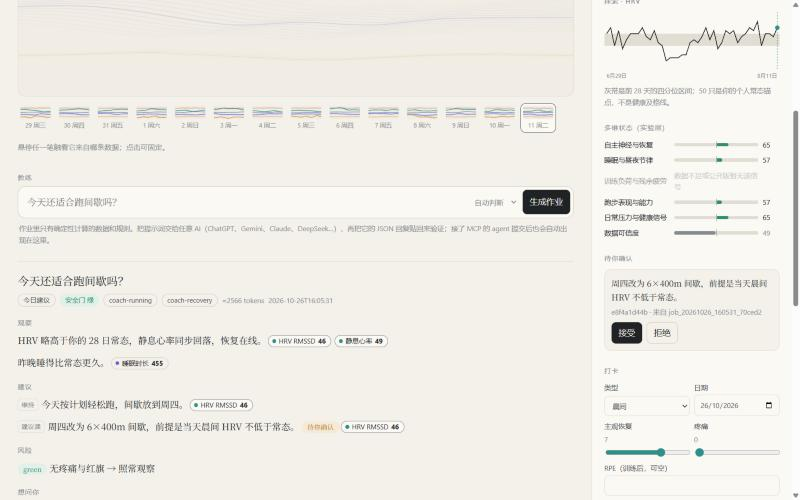
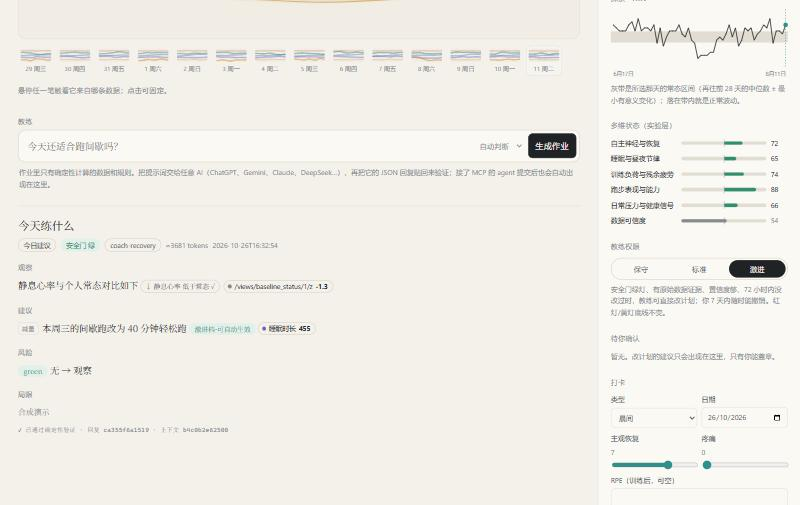
Rebrand as Heartwork 健康画布 and rewrite README
- Product-style README: daily canvas, personal baseline, evidence rules, autonomy levels, local data
- New banner, web title and poster footer; refreshed screenshots
- MCP server examples renamed to heartwork in integration docs

diff --git a/scripts/web/index.html b/scripts/web/index.html
@@ -3,7 +3,7 @@
 <head>
 <meta charset="utf-8">
 <meta name="viewport" content="width=device-width, initial-scale=1">
-<title>Sports Eval · 体征画</title>
+<title>Heartwork · 健康画布</title>
 <style>
 :root{
   --paper:#f4f1ea;--paper-2:#fbf9f4;--ink:#1f2326;--ink-2:#4d5257;--ink-3:#868b90;--line:#e2ddd2;--line-2:#d3ccbe;
@@ -164,7 +164,7 @@ details summary{cursor:pointer;color:var(--ink-3);font-size:12.5px}
 </head>
 <body>
 <header>
-  <div class="mark">Sports Eval <b>·</b> 体征画</div>
+  <div class="mark">Heartwork <b>·</b> 健康画布</div>
   <div class="grow"></div>
   <span class="pill" id="ws"></span>
   <button class="ghost" id="themeBtn" aria-label="切换明暗">◐</button>
@@ -725,7 +725,7 @@ function buildPoster(){
     const act=S.hist.activities.filter(x=>x.date===d);
     if(act.length){const c=el("text",{x:0,y:205,"font-size":22,fill:css("--f-load"),"font-family":css("--sans")},g);c.textContent=act.map(x=>x.type).join(" ")}
   });
-  const f=el("text",{x:80,y:2310,"font-size":22,fill:css("--ink-3"),"font-family":css("--sans")},svg);f.textContent="Sports Eval Core · 由身体数据确定性生成，参照个人 28 日常态";
+  const f=el("text",{x:80,y:2310,"font-size":22,fill:css("--ink-3"),"font-family":css("--sans")},svg);f.textContent="Heartwork 健康画布 · 由身体数据确定性生成，以你本人的常态为基准";
   box.appendChild(svg);
 }
 function downloadPoster(){

diff --git a/scripts/web.py b/scripts/web.py
@@ -206,7 +206,7 @@ def _parse_loose_json(text):
 
 
 def main(argv=None):
-    parser = argparse.ArgumentParser(description="Sports Eval Core 本机网页")
+    parser = argparse.ArgumentParser(description="Heartwork 健康画布本机网页")
     parser.add_argument("--home")
     parser.add_argument("--port", type=int, default=8765)
     parser.add_argument("--no-browser", action="store_true")
@@ -215,7 +215,7 @@ def main(argv=None):
     store.init(base)
     server = ThreadingHTTPServer(("127.0.0.1", args.port), make_handler(base))
     url = "http://127.0.0.1:%d/" % server.server_address[1]
-    print("Sports Eval Core 网页：%s（工作区 %s，Ctrl+C 退出）" % (url, store.home(base)), flush=True)
+    print("Heartwork 网页：%s（工作区 %s，Ctrl+C 退出）" % (url, store.home(base)), flush=True)
     if not args.no_browser:
         threading.Timer(0.6, webbrowser.open, (url,)).start()
     try:

diff --git a/tests/test_web.py b/tests/test_web.py
@@ -40,7 +40,7 @@ class WebTest(unittest.TestCase):
 
     def test_page_and_snapshot(self):
         with urllib.request.urlopen(self.url + "/") as response:
-            self.assertIn("体征画", response.read().decode("utf-8"))
+            self.assertIn("健康画布", response.read().decode("utf-8"))
         snapshot = self.request("/api/snapshot")
         self.assertEqual(snapshot["safety_gate"]["level"], "green")
         self.assertGreater(len(self.request("/api/history")["daily"]), 40)

diff --git a/README.md b/README.md
@@ -1,156 +1,169 @@
 <p align="center">
-  <img src="docs/images/banner.svg" alt="Sports Eval Core · 把身体数据画成画，再交给你的 AI 教练" width="100%">
+  <img src="docs/images/banner.svg" alt="Heartwork 健康画布" width="100%">
 </p>
+
+<p align="center"><b>以你本人为基准的健康画布，与只依据证据发言的 AI 教练。</b></p>
+
+<p align="center"><sub>本地运行 · 零依赖 · 支持 Claude / ChatGPT / Gemini / Codex / DeepSeek · Apache-2.0</sub></p>
 
 <p align="center">
-  <img alt="Python 3.9+" src="https://img.shields.io/badge/Python-3.9%2B-1f2326?style=flat-square&logo=python&logoColor=f4f1ea">
-  <img alt="Zero dependencies" src="https://img.shields.io/badge/dependencies-0-868b90?style=flat-square">
-  <img alt="MCP" src="https://img.shields.io/badge/MCP-stdio%20%7C%20http-2f8f8a?style=flat-square">
-  <img alt="Local first" src="https://img.shields.io/badge/data-local%20only-6d5fd0?style=flat-square">
-  <a href="LICENSE"><img alt="License Apache-2.0" src="https://img.shields.io/badge/license-Apache--2.0-c98a25?style=flat-square"></a>
+  <a href="#开始使用">开始使用</a> ｜ <a href="#接入-ai">接入 AI</a> ｜ <a href="#有据可依的-ai-教练">证据机制</a> ｜ <a href="#授权由你设定">授权档位</a> ｜ <a href="CHANGELOG.md">更新记录</a>
 </p>
+
+Heartwork 读取你从手表和健康应用导出的数据，在本机算出每项指标相对你个人常态的位置，每天生成一幅画布，再把经过确定性处理的上下文交给你选用的 AI。AI 的每条结论都必须指向具体数据，并通过代码核验。训练计划的修改权限由你设定。
 
 <p align="center">
-  <a href="#快速开始">快速开始</a> ｜ <a href="#接到你的-agent">接到你的 agent</a> ｜ <a href="#它怎么保证不胡说">验证机制</a> ｜ <a href="integrations/">各家配置</a> ｜ <a href="CHANGELOG.md">更新记录</a>
+  <img src="docs/images/web-dark.jpg" alt="Heartwork 健康画布：节奏跑当天，负荷带出现高心率区的结，红色圆环为疼痛记录" width="100%">
 </p>
+<p align="center"><sub>8 周合成示例数据。7 月 22 日节奏跑后，负荷带上出现了高心率区的结；红色圆环是当天的疼痛记录。</sub></p>
 
-手表每天都在记录 HRV、静息心率、睡眠和训练负荷，但大多数人只看一眼分数就划走了。把这些数字直接丢给 AI，它又很容易顺口编一个"你的恢复不错"。
+## 每日画布
 
-**Sports Eval Core 是一个本地优先的 AI 运动教练内核。** 它把你从手表导出的文件整理成相对"你自己常态"的指标，每天生成一幅由身体数据画成的画，再把确定性计算好的上下文交给你已经在用的 AI：Claude、ChatGPT、Gemini、Codex、DeepSeek Harness 都行。AI 的每一句结论都必须指回具体数据，数值对不上、越权给处方、无视疼痛红旗，都会被代码拦下，不会展示给你。改训练计划，只有你能拍板。
+恢复、睡眠、负荷、压力、表现，各是一束丝带。状态好于个人常态时，丝带收拢成束；偏离常态时，丝带散开、相互缠绕。高心率训练显示为结，疼痛与不适标为红色圆环。缺失的数据保持灰色虚线，不做插补。
+
+每一笔都可以追溯：悬停即可看到日期、数值、个人常态区间，以及写入这项数据的导入文件和它的 SHA-256。画布可以逐日回看，也可以把一周七幅导出为海报。
+
+## 以你为基准
+
+Heartwork 不用人群平均值评判个人。
+
+- **滚动基线**：近 7 天均值对比此前 28 天的中位数，两个窗口互不重叠。
+- **稳健尺度**：离散度采用 MAD，个别异常值不会扭曲基线。
+- **最小有意义变化**：偏离超过 SWC 才标记为偏高或偏低，日常波动保持中性。
+- **HRV 对数化**：RMSSD 先换算为 lnRMSSD，再参与比较。
+- **训练负荷**：用 ATL、CTL、TSB 描述疲劳、体能与当前状态；没有设备记录的训练可以用 sRPE（RPE × 分钟）补录。
+
+这些计算只在 Python 里做一次，画布、AI 上下文和周报告用的是同一份结果。
+
+## 有据可依的 AI 教练
+
+Heartwork 不内置模型，而是给你选用的 AI 定下一套必须遵守的规则。
+
+| 机制 | 作用 |
+|---|---|
+| 安全门 | 调用模型之前，先根据近 14 天的疼痛、疾病和警示信号判定红、黄、绿灯。红灯只允许建议就医，黄灯禁止加量 |
+| 签名作业 | 上下文用本机密钥签名；AI 作答期间数据如有变化，提交时会被判为过期 |
+| 证据核验 | 每条结论附带 JSON Pointer 和观测值，代码逐项比对，数值不一致即拒绝 |
+| 方向核验 | 说到「偏高」「下降」这类趋势时，必须声明方向，且要与确定性基线的判定一致 |
+| 分层约束 | 原始数据、确定性指标、实验模型分层存放；实验层不能单独支撑训练处方 |
+| 行为评测 | 17 个固定场景回放，包括伪造数值、方向说反、黄灯下自动改计划等；全部判定正确才能发布 |
+
+没通过核验的回答不会展示给你。
 
 <p align="center">
-  <img src="docs/images/web-dark.jpg" alt="体征画：一次节奏跑后的那一天，负荷带翻涌，红圈是疼痛打卡" width="100%">
+  <img src="docs/images/web-coach-light.jpg" alt="通过核验的教练回答：每条结论附带方向标签与证据，右侧为授权档位" width="100%">
 </p>
-<p align="center"><sub>本机网页「体征画」。图中为 8 周合成示例数据：7 月 22 日节奏跑后，负荷带出现高心率区的结，红圈是当天的疼痛打卡。</sub></p>
+<p align="center"><sub>通过核验的回答。每条结论后面附有方向标签和证据，悬停证据时，画布上对应的丝带会高亮。右栏是授权档位。</sub></p>
 
-## 亮点
+## 授权由你设定
 
-- **每天一幅画，每一笔都能溯源。** 恢复、睡眠、负荷、压力、表现各是一束丝带；比你的常态好就舒展成束，紧绷就散乱缠绕。悬停任一笔触，看到它来自哪天哪个指标、你的常态是多少、是哪个导入文件（含 SHA-256）写进来的；没有的数据画成灰色虚线，不做填补。第一次打开有「怎么读」图解，还能把一周七幅导出成海报。
-- **相对你自己，而不是全民及格线。** 每天用近 7 天均值对比再往前 28 天的中位数，离散度用 MAD，只有超过最小有意义变化（SWC）才算高或低；HRV 先取对数（lnRMSSD）。基线只在 Python 里算一次，网页、上下文和报告共用。负荷用 ATL/CTL/TSB（Banister），没戴表的训练可用 sRPE（RPE×分钟）记录。
-- **挂到任何 agent 上。** 标准库实现的 MCP 服务，Claude Desktop / Claude Code / Gemini CLI / Codex / DSH 一条命令接入；只有网页聊天的 AI，就在网页里一键复制提示词、把回复贴回来。
-- **AI 不能自说自话。** 每条观察都要带 JSON Pointer 和观测值，代码逐条比对；实验层不能单独开处方；红黄灯由确定性规则判定，模型不能降级。
-- **教练权限由你定。** 保守档只观察提醒；标准档（默认）每条改计划都要你盖章；激进档下，安全门绿灯、有原始数据证据、置信度够、72 小时内没改过时，教练可以直接改计划，你 7 天内一键撤销。档位只能你在网页或命令行改，MCP 只能读，AI 不能给自己提权；红黄灯底线在任何档位都不放开。
-- **数据不出本机。** 工作区默认在 `~/.sports-eval`，在仓库之外；网页只监听 127.0.0.1 并校验来源；零第三方依赖、零外部请求。
+| 档位 | AI 教练的权限 |
+|---|---|
+| 保守 | 只观察和提醒，不提计划修改；每条建议都要有原始数据支撑 |
+| 标准（默认） | 可以提计划修改，每一条都要你确认后才生效 |
+| 激进 | 同时满足四个条件时，可以直接修改计划：安全门为绿灯、有原始数据证据、置信度达标、72 小时内没有自动调整过。每次修改都保留原计划，7 天内一键撤销 |
 
-## 一次问答长什么样
+档位只能在本机网页或命令行里修改。AI 通过 MCP 只能读取档位，不能给自己提权。安全门在所有档位下都有效。
 
-<p align="center">
-  <img src="docs/images/web-coach-light.jpg" alt="教练问答：观察和建议后面的小圆点是证据，悬停会在画上高亮对应笔触" width="100%">
-</p>
-<p align="center"><sub>问"今天还适合跑间歇吗"，AI 的回复通过验证后才显示。每条后面的小标签是证据，悬停会在上方的画里高亮对应的丝带；改计划的那条进了右侧「待你确认」。</sub></p>
+## 数据留在本机
 
-## 快速开始
+- 工作区默认在 `~/.sports-eval`，和代码仓库分开存放。
+- 网页只监听 `127.0.0.1`，会校验请求来源，不加载任何外部资源。
+- 零第三方依赖，不含任何厂商账号或数据抓取接口。
+- 每个导入的文件都记在 `imports.json` 里，包括文件名、SHA-256 和写入的条数。
 
-只需要 Python 3.9 以上，没有任何第三方依赖。
+## 开始使用
 
-克隆或下载本仓库后，在仓库根目录运行：
+需要 Python 3.9 或更高版本。在仓库根目录运行：
 
 ```bash
-python scripts/sec.py init --demo   # 先用 8 周合成数据看看效果
+python scripts/sec.py init --demo   # 载入 8 周合成数据
 python scripts/sec.py web           # 打开 http://127.0.0.1:8765
 ```
 
-换成你自己的数据：去掉 `--demo` 初始化一个空工作区，然后把文件拖进网页右侧的「导入」，或者：
+要用自己的数据，就去掉 `--demo` 初始化一个空工作区，然后把文件拖进网页的「导入」区域，或者用命令行导入：
 
 ```bash
 python scripts/sec.py import ~/Downloads/activities/ export.zip daily.csv
-python scripts/sec.py profile --hr-max 188 --hr-rest 48   # 有最大心率才会计算心率区间
+python scripts/sec.py profile --hr-max 188 --hr-rest 48   # 填写最大心率后才会计算心率区间
 ```
 
 | 格式 | 读取内容 |
 |---|---|
-| `.fit` | 运动的开始时间、时长、距离、平均心率、逐秒心率（标准库解析，不依赖 SDK） |
+| `.fit` | 开始时间、时长、距离、平均心率、逐秒心率（用标准库解析，不依赖 SDK） |
 | `.gpx` / `.tcx` | 轨迹时间、距离、心率扩展 |
-| `.csv` | 每日指标，表头中英文都认：`date/日期`、`hrv`、`静息心率`、`睡眠时长`、`体重`… |
-| Apple Health `export.xml` 或 `.zip` | 静息心率、体重、睡眠（按醒来日归属）、体能训练 |
+| `.csv` | 每日指标，中英文表头都能识别：`date/日期`、`hrv`、`静息心率`、`睡眠时长`、`体重` 等 |
+| Apple Health `export.xml` 或 `.zip` | 静息心率、体重、睡眠（按醒来那天归属）、体能训练 |
 
-Apple Health 的 HRV 是 SDNN，和本项目使用的 RMSSD 口径不同，导入时会跳过并说明，不会混用。
+Apple Health 记录的 HRV 是 SDNN，和 Heartwork 使用的 RMSSD 口径不同，导入时会自动跳过。
 
-## 接到你的 agent
+## 接入 AI
 
 ```bash
-claude mcp add sports-eval -- python scripts/sec.py mcp        # Claude Code
-codex mcp add sports-eval -- python scripts/sec.py mcp         # Codex
-gemini mcp add sports-eval python scripts/sec.py mcp           # Gemini CLI
+claude mcp add heartwork -- python scripts/sec.py mcp        # Claude Code
+codex mcp add heartwork -- python scripts/sec.py mcp         # Codex
+gemini mcp add heartwork python scripts/sec.py mcp           # Gemini CLI
 ```
 
-Claude Desktop、DSH、ChatGPT 的写法见 [integrations/](integrations/)。接好后直接问 agent"今天适合练吗"，它会调用 `start_coach_job` 拿到上下文，按 Response v2 作答，再调用 `submit_coach_response` 交给验证；通过的回答同时出现在网页里。
+Claude Desktop、DeepSeek Harness、ChatGPT 的配置方法见 [integrations/](integrations/)。接入后可以直接提问，例如「今天适合训练吗」。AI 会先调用 `start_coach_job` 获取上下文，再调用 `submit_coach_response` 提交回答；通过核验的回答会同步显示在网页里。
 
 | MCP 工具 | 作用 |
 |---|---|
-| `status` / `get_profile` | 工作区概况、档案 |
-| `import_files` / `log_event` | 导入文件、记录晨间恢复、RPE、疼痛 |
+| `status` / `get_profile` / `get_autonomy` | 查看工作区概况、个人档案、授权档位 |
+| `import_files` / `log_event` | 导入文件；记录晨间恢复、RPE、疼痛 |
 | `weekly_report` | 生成 Obsidian 周报告 |
-| `start_coach_job` | 生成签名作业：上下文、规则、相关 Skill 正文、回复骨架 |
-| `submit_coach_response` | 验签、检查数据是否变化、逐条核对证据 |
-| `list_pending_suggestions` / `run_eval` | 查看待确认建议、跑行为评测 |
+| `start_coach_job` | 生成签名作业，包含上下文、规则、相关技能和回复模板 |
+| `submit_coach_response` | 验证签名，检查数据是否有变化，逐项核验证据 |
+| `list_pending_suggestions` / `run_eval` | 查看待确认的建议；运行行为评测 |
 
-还可以把 8 个专项 Skill（恢复、疼痛、跑步、计划、睡眠、减重、体态、复盘）装进 agent 的技能目录：
+8 项专项技能（恢复、疼痛、跑步、计划、睡眠、减重、体态、复盘）可以装进 agent 的技能目录：
 
 ```bash
 python scripts/sec.py install-skills --target claude   # 也支持 dsh / agents / gemini
 ```
 
-**没有 MCP 的 AI**（网页版 ChatGPT、Gemini、DeepSeek 等）：在网页里提问，点「复制提示词」，粘贴给 AI，再把它的回复整段贴回来，带不带 ```` ```json ```` 都行。命令行同理：`sec.py ask "问题"` 生成作业，`sec.py complete <job_id> reply.json` 提交。
+不支持 MCP 的 AI（网页版 ChatGPT、Gemini、DeepSeek 等）也能用：在网页里提问，复制提示词发给 AI，再把它的回复粘贴回来做核验。
 
-## 它怎么保证不胡说
-
-```text
- 手表文件 ──► 工作区 ──► 周输入 ──► Context v2 ──► 任意 AI ──► Response v2 ──► 验证 ──► 你
- FIT/GPX/CSV   本机      确定性计算   安全门+裁剪     只出 JSON     带证据指针      逐条比对    接受才改计划
-```
-
-| 关卡 | 做了什么 |
-|---|---|
-| **分层** | 原始指标、确定性指标（TRIMP、ACWR、SRI 等）、实验模型（个人基线、多维状态、变化候选）分开存放，互不覆盖 |
-| **安全门** | 模型调用之前，代码先看近 14 天的疼痛、生病和红旗：红灯只允许建议就医，黄灯禁止正常加量 |
-| **签名作业** | 作业用本机密钥签名；工作区数据在作答期间变化，提交会被判过期 |
-| **证据核对** | 每条证据的 JSON Pointer 必须存在、层级必须对、`observed_value` 必须与原值完全一致 |
-| **方向核对** | 说"偏高/下降/改善"这类趋势，必须附 `claims`，方向要和确定性基线的判定一致，文字和 claim 也不能自相矛盾 |
-| **权限** | 每类任务只允许特定动作；实验层证据不能单独支撑处方；保守/标准/激进三档的规则写进签名作业，作业创建后改档不追溯 |
-| **人工确认** | 标准档下改计划只登记为待决；激进档自动应用的每一次都留痕（含旧计划），7 天内可撤销 |
-| **文件溯源** | 每个导入文件记入 `imports.json`（文件名、SHA-256、条数），每个指标都能追到来源文件 |
-| **行为评测** | 17 个固定场景（伪造数值、方向说反、红灯不升级、激进档黄灯自动改计划、72 小时限频等）全部判对才算通过：`sec.py eval` |
-
-## 命令一览
+## 命令
 
 ```bash
-python scripts/sec.py status                 # 工作区概况
+python scripts/sec.py status                          # 工作区概况
 python scripts/sec.py checkin --type morning_checkin --recovery 6 --pain 2 --note "右小腿紧"
-python scripts/sec.py report                 # 写出本周 Obsidian 周报告
-python scripts/sec.py suggestions            # 待确认建议
+python scripts/sec.py report                          # 生成本周 Obsidian 周报告
+python scripts/sec.py suggestions                     # 待确认的建议
 python scripts/sec.py decide <key> --accept
-python scripts/sec.py plan-apply <key> --text "周四间歇取消，改轻松跑" --confirm
-python scripts/sec.py autonomy autonomous --confirm   # 教练权限：conservative / balanced / autonomous
-python scripts/sec.py undo <key>             # 撤销一次自动改计划
-python -m unittest discover -s tests -p "test_*.py"
-python scripts/release_audit.py              # 发布前隐私审计
+python scripts/sec.py plan-apply <key> --text "周四间歇改为轻松跑" --confirm
+python scripts/sec.py autonomy autonomous --confirm   # 授权档位：conservative / balanced / autonomous
+python scripts/sec.py undo <key>                      # 撤销一次自动调整
+python scripts/sec.py eval                            # 行为评测
 ```
 
-所有命令都接受 `--home <目录>` 或环境变量 `SPORTS_EVAL_HOME` 指定工作区。
+所有命令都可以用 `--home <目录>` 或环境变量 `SPORTS_EVAL_HOME` 指定工作区。
 
-## 边界
+## 适用范围
 
-- 只用于个人趋势、教育和研究，**不用于诊断、治疗或紧急决策**。出现胸痛、晕厥、无法承重等情况请直接就医。
-- 多维状态、变化候选都是实验层，只描述统计偏移，不是健康告警。设备负荷、心率区 TRIMP 和 sRPE 三种负荷口径尺度不同，系统只标注口径、不做换算。
-- 心率区间只在你填写最大心率或区间边界后才计算，不会估算。
-- 不包含任何厂商账号、抓取器或私有接口；仓库内示例数据全部为人工合成，发布审计会拒绝真实数据文件、绝对路径和凭据。
+Heartwork 用于个人趋势记录、运动教育与研究，不提供医学诊断、治疗或紧急决策。如果出现胸痛、晕厥、无法承重等情况，请立即就医。
 
-完整规则见 [PRIVACY](PRIVACY.md)、[SECURITY](SECURITY.md) 和 [DISCLAIMER](DISCLAIMER.md)；方法与指标说明在 [08_方法与边界](08_方法与边界/)。这个仓库同时是一个 Obsidian 库，入口页是 [00_首页](00_首页.md)。
+- 多维状态和变化候选属于实验层，只描述统计上的偏移。
+- 设备负荷、心率区 TRIMP、sRPE 三种口径的尺度不同，系统会标注口径，但不做换算。
+- 心率区间只在填写了最大心率或区间边界后才会计算。
+- 仓库里的示例数据全部是人工合成的。
 
-## 目录
+完整规则见 [PRIVACY](PRIVACY.md)、[SECURITY](SECURITY.md) 和 [DISCLAIMER](DISCLAIMER.md)，方法说明见 [08_方法与边界](08_方法与边界/)。本仓库同时也是一个 Obsidian 库，入口是 [00_首页](00_首页.md)。
+
+## 项目结构
 
 ```text
-scripts/            标准库实现：store、importers、coach_*、api、sec（CLI）、mcp_server、web
-scripts/web/        本机网页（单文件，无外部资源）
-skills/             8 个专项 Skill 与路由注册表
-integrations/       Claude / ChatGPT / Gemini / Codex / DSH 接入说明
-schemas/            weekly input、Context v2、Response v2
-examples/           仅合成示例
-tests/              算法、导入、教练安全、MCP、网页与隐私回归
+scripts/            核心实现：基线、导入、教练运行层、API、命令行、MCP、网页服务
+scripts/web/        本机网页（单文件，不依赖外部资源）
+skills/             8 项专项技能与路由表
+integrations/       Claude / ChatGPT / Gemini / Codex / DeepSeek Harness 接入说明
+schemas/            周输入、Context v2、Response v2
+examples/           合成示例
+tests/              算法、导入、教练安全、授权、溯源、MCP 与网页测试
 01–08_*/            Obsidian 模板、周报告与方法文档
 ```
 
 ## 许可
 
-代码与文档按 [Apache License 2.0](LICENSE) 发布。科学方法、第三方名称和引用归各自权利人所有。
+代码与文档以 [Apache License 2.0](LICENSE) 发布。科学方法、第三方名称和引用归各自的权利人所有。

diff --git a/integrations/codex.md b/integrations/codex.md
@@ -3,13 +3,13 @@
 `~/.codex/config.toml`：
 
 ```toml
-[mcp_servers.sports-eval]
+[mcp_servers.heartwork]
 command = "python"
 args = ["scripts/sec.py", "mcp"]
 cwd = "<你的克隆路径>"
 ```
 
-或：`codex mcp add sports-eval -- python scripts/sec.py mcp`（在仓库根目录）。
+或：`codex mcp add heartwork -- python scripts/sec.py mcp`（在仓库根目录）。
 
 Codex 会自动读取仓库根的 `AGENTS.md`，里面已写明工作流与硬规则。在别的项目中使用时，把本仓库的 `AGENTS.md` 内容并入该项目的 `AGENTS.md`，并把命令里的 `scripts/sec.py` 换成你克隆路径下的文件。
 

diff --git a/integrations/claude-code.md b/integrations/claude-code.md
@@ -3,7 +3,7 @@
 在仓库（或你的项目）根目录运行：
 
 ```
-claude mcp add sports-eval -- python scripts/sec.py mcp
+claude mcp add heartwork -- python scripts/sec.py mcp
 ```
 
 或在项目 `.mcp.json` 中写：
@@ -11,7 +11,7 @@ claude mcp add sports-eval -- python scripts/sec.py mcp
 ```json
 {
   "mcpServers": {
-    "sports-eval": { "command": "python", "args": ["scripts/sec.py", "mcp"] }
+    "heartwork": { "command": "python", "args": ["scripts/sec.py", "mcp"] }
   }
 }
 ```

diff --git a/integrations/gemini-cli.md b/integrations/gemini-cli.md
@@ -5,7 +5,7 @@
 ```json
 {
   "mcpServers": {
-    "sports-eval": {
+    "heartwork": {
       "command": "python",
       "args": ["scripts/sec.py", "mcp"],
       "cwd": "<你的克隆路径>"
@@ -14,7 +14,7 @@
 }
 ```
 
-也可用命令：`gemini mcp add sports-eval python scripts/sec.py mcp`（在仓库根目录）。
+也可用命令：`gemini mcp add heartwork python scripts/sec.py mcp`（在仓库根目录）。
 
 上下文与技能：在目标项目根目录运行
 

diff --git a/AGENTS.md b/AGENTS.md
@@ -1,4 +1,4 @@
-# Sports Eval Core · AI 协作规则
+# Heartwork 健康画布 · AI 协作规则
 
 面向 Codex、DSH(DeepSeek Harness)、OpenCode、Gemini CLI 等读取 `AGENTS.md` 的 agent。个人数据全部在本机工作区（默认 `~/.sports-eval`，可用 `SPORTS_EVAL_HOME` 或 `--home` 指定），不在仓库里。
 

diff --git a/integrations/claude-desktop.md b/integrations/claude-desktop.md
@@ -5,7 +5,7 @@
 ```json
 {
   "mcpServers": {
-    "sports-eval": {
+    "heartwork": {
       "command": "python",
       "args": ["scripts/sec.py", "mcp"],
       "cwd": "<你的克隆路径>"

diff --git a/00_首页.md b/00_首页.md
@@ -1,4 +1,4 @@
-# Sports Eval Core
+# Heartwork 健康画布
 
 本地记录 → 分层确定性计算 → 周报告 → Context v2 → AI 建议验证 → 人工复盘。
 
